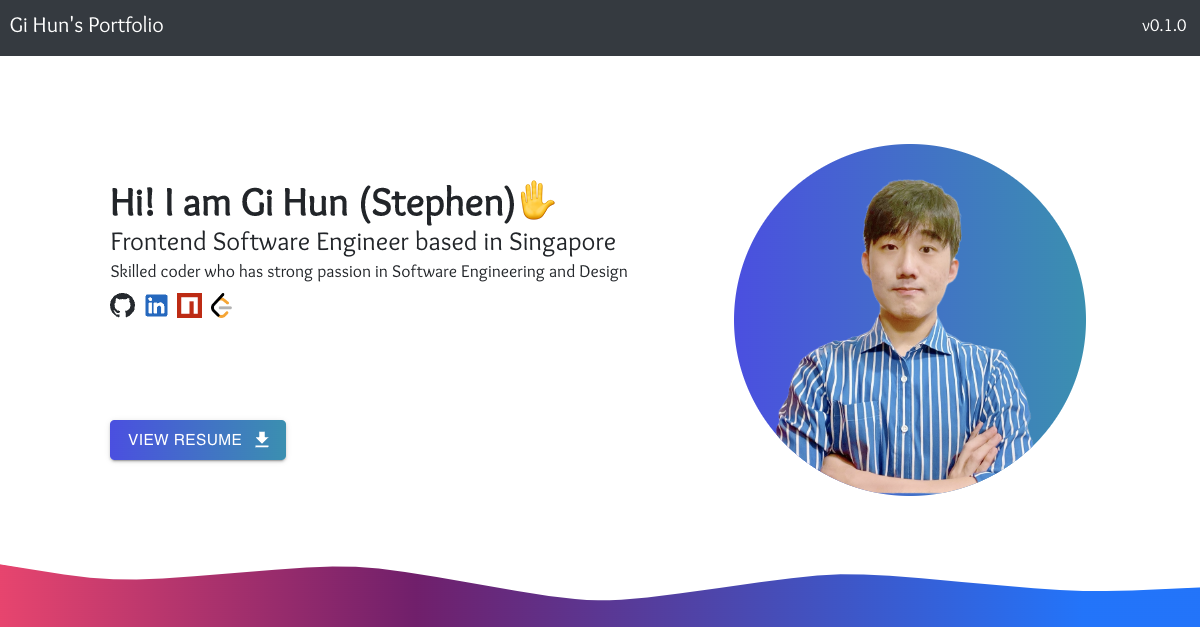
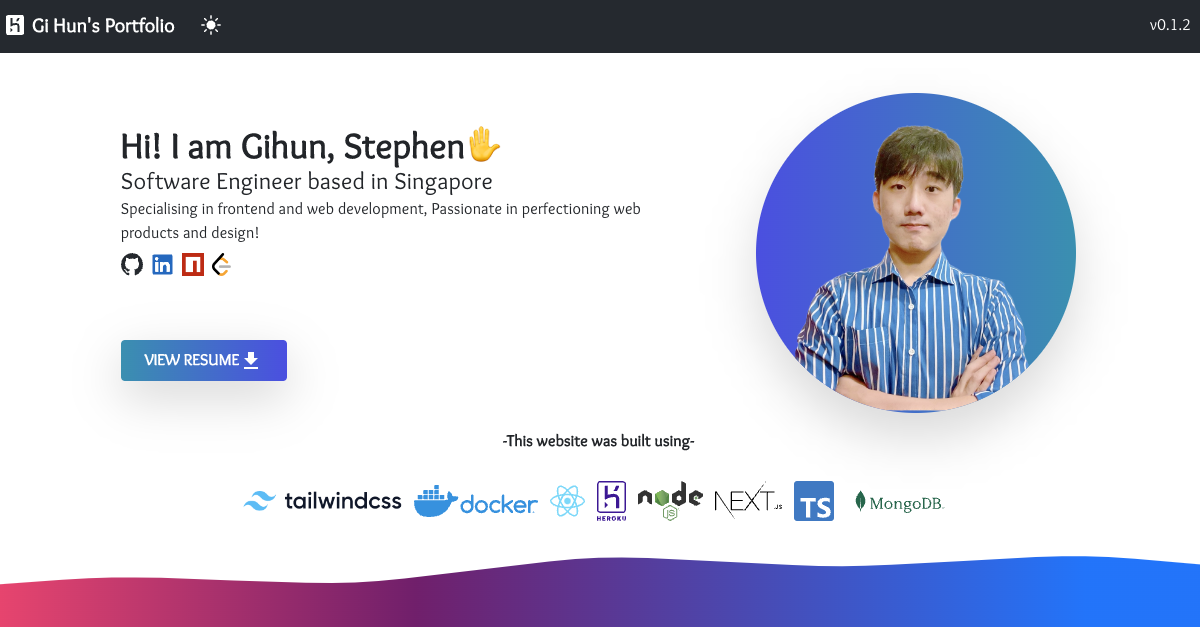
improved intro ui

diff --git a/src/constants/constants.ts b/src/constants/constants.ts
@@ -8,44 +8,38 @@ export const techstackLogoArr: React.DetailedHTMLProps<
     HTMLImageElement
 >[] = [
     {
-        src: 'assets/images/tailwindcss-logotype.svg',
+        src: 'assets/images/tailwindcss-logotype.png',
         alt: 'tailwind',
-        className: 'h-6',
+        className: 'h-5 md:h-2 max-sm:h-2',
     },
     {
         src: 'assets/images/docker.svg',
         alt: 'docker',
-        className: 'h-50',
+        className: 'lg:h-8 md:h-8 max-sm:h-6',
     },
     {
         src: 'assets/images/react.svg',
         alt: 'react',
-        className: 'h-50',
     },
     {
         src: 'assets/images/heroku-logotype-vertical-purple.svg',
         alt: 'heroku',
-        className: 'h-50',
     },
     {
         src: 'https://upload.wikimedia.org/wikipedia/commons/d/d9/Node.js_logo.svg',
         alt: 'nodejs',
-        className: 'h-50',
     },
     {
         src: 'https://upload.wikimedia.org/wikipedia/commons/8/8e/Nextjs-logo.svg',
         alt: 'nextjs',
-        className: 'h-50',
     },
     {
         src: 'assets/images/ts-logo-256.svg',
         alt: 'typescript',
-        className: 'h-50',
     },
     {
         src: 'assets/images/MongoDB_Forest-Green.svg',
         alt: 'mongodb',
-        className: 'h-50',
     },
 ];
 
@@ -54,43 +48,37 @@ export const techStackLogoArrWhite: React.DetailedHTMLProps<
     HTMLImageElement
 >[] = [
     {
-        src: 'assets/images/tailwindcss-logotype-white.svg',
+        src: 'assets/images/tailwindcss-logotype-white.png',
         alt: 'tailwind',
-        className: 'h-6',
+        className: 'h-5 md:h-2 max-sm:h-2',
     },
     {
         src: 'assets/images/docker.svg',
         alt: 'docker',
-        className: 'h-50',
+        className: 'lg:h-8 md:h-8 max-sm:h-6',
     },
     {
         src: 'assets/images/react.svg',
         alt: 'react',
-        className: 'h-50',
     },
     {
         src: 'assets/images/heroku-logotype-vertical-white.svg',
         alt: 'heroku',
-        className: 'h-50',
     },
     {
         src: 'https://nodejs.org/static/images/logo.svg',
         alt: 'nodejs',
-        className: 'h-50',
     },
     {
         src: 'assets/images/next-js.svg',
         alt: 'nextjs',
-        className: 'h-50',
     },
     {
         src: 'assets/images/ts-logo-256.svg',
         alt: 'typescript',
-        className: 'h-50',
     },
     {
         src: 'assets/images/MongoDB_Logo_RGB_Logo_White.svg',
         alt: 'mongodb',
-        className: 'h-50',
     },
 ];

diff --git a/src/components/IntroSection/IntroSection.tsx b/src/components/IntroSection/IntroSection.tsx
@@ -28,7 +28,7 @@ const IntroSection = () => {
         <div className={'flex relative flex-column items-center'}>
             <div
                 className={
-                    'flex flex-1 flex-wrap lg:pt-20 md:pt-16 max-sm:pt-8 md:px-4 justify-center items-center lg:gap-24 md:gap-4 '
+                    'flex flex-1 flex-wrap lg:pt-10 md:pt-10 max-sm:pt-8 md:px-4 justify-center items-center lg:gap-24 md:gap-4 '
                 }>
                 <Grow in timeout={1000}>
                     <div
@@ -84,18 +84,34 @@ const IntroSection = () => {
                 <IDCard />
             </div>
             <div
-                className={'px-8 flex relative items-center flex-column gap-2'}>
-                <p className={'text-xl font-semibold'}>
-                    -This website is powered by-
+                className={
+                    'px-8 md:top-4 max-sm:top-8 flex relative items-center flex-column max-sm:gap-1'
+                }>
+                <p
+                    className={
+                        'text-lg md:text-base max-sm:text-sm font-semibold'
+                    }>
+                    -This website was built using-
                 </p>
-                <div className={'flex items-center gap-5 overflow-x-auto h-24'}>
+                <div
+                    className={
+                        'flex items-center gap-3 overflow-x-auto h-24 max-sm:h-12'
+                    }>
                     {logoArr.map((x, i) => {
                         const { alt, src, ...other } = x;
-                        return <img key={i} alt={alt} src={src} {...other} />;
+                        return (
+                            <img
+                                key={i}
+                                alt={alt}
+                                src={src}
+                                className={'lg:h-10 md:h-8 max-sm:h-6'}
+                                {...other}
+                            />
+                        );
                     })}
                 </div>
             </div>
-            <div className={'-top-4 flex relative w-full'}>
+            <div className={'-top-12 max-sm:-top-8 flex relative w-full'}>
                 <Wave
                     fill={'url(#gradient)'}
                     paused={false}

diff --git a/src/components/NavBar.tsx b/src/components/NavBar.tsx
@@ -47,7 +47,7 @@ function NavBar() {
             <nav className="navbar navbar-expand-lg navbar-dark bg-coolblack justify-between">
                 <div className={'flex align-center items-center gap-2'}>
                     <img
-                        className={'h-7'}
+                        className={'h-5'}
                         src={'assets/images/heroku-logo-solid-white.svg'}
                         alt={'heroku-logo'}
                     />

diff --git a/src/components/ProjectCard/ProjectCard.tsx b/src/components/ProjectCard/ProjectCard.tsx
@@ -62,7 +62,7 @@ const ProjectCard = (props: ProjectCardProps) => {
     return (
         <div
             className={
-                'w-1/4 max-sm:w-full rounded lg:shadow-lg md:shadow-md max-sm:shadow-md dark:bg-gray-800'
+                'w-1/4 max-sm:w-full rounded lg:shadow-lg md:shadow-md max-sm:shadow-md dark:bg-zinc-800'
             }>
             <CardActionArea onClick={onClickCard}>
                 <img

diff --git a/src/pages/index.tsx b/src/pages/index.tsx
@@ -28,7 +28,7 @@ const Home: NextPage<HomeProps> = ({
     const labelInstance = LabelContainer.getInstance();
     labelInstance.setLabels(data as Labels);
     return (
-        <div className={'bg:white dark:bg-slate-800'}>
+        <div className={'bg:white dark:bg-neutral-900'}>
             <IntroSection />
             <div
                 className={
